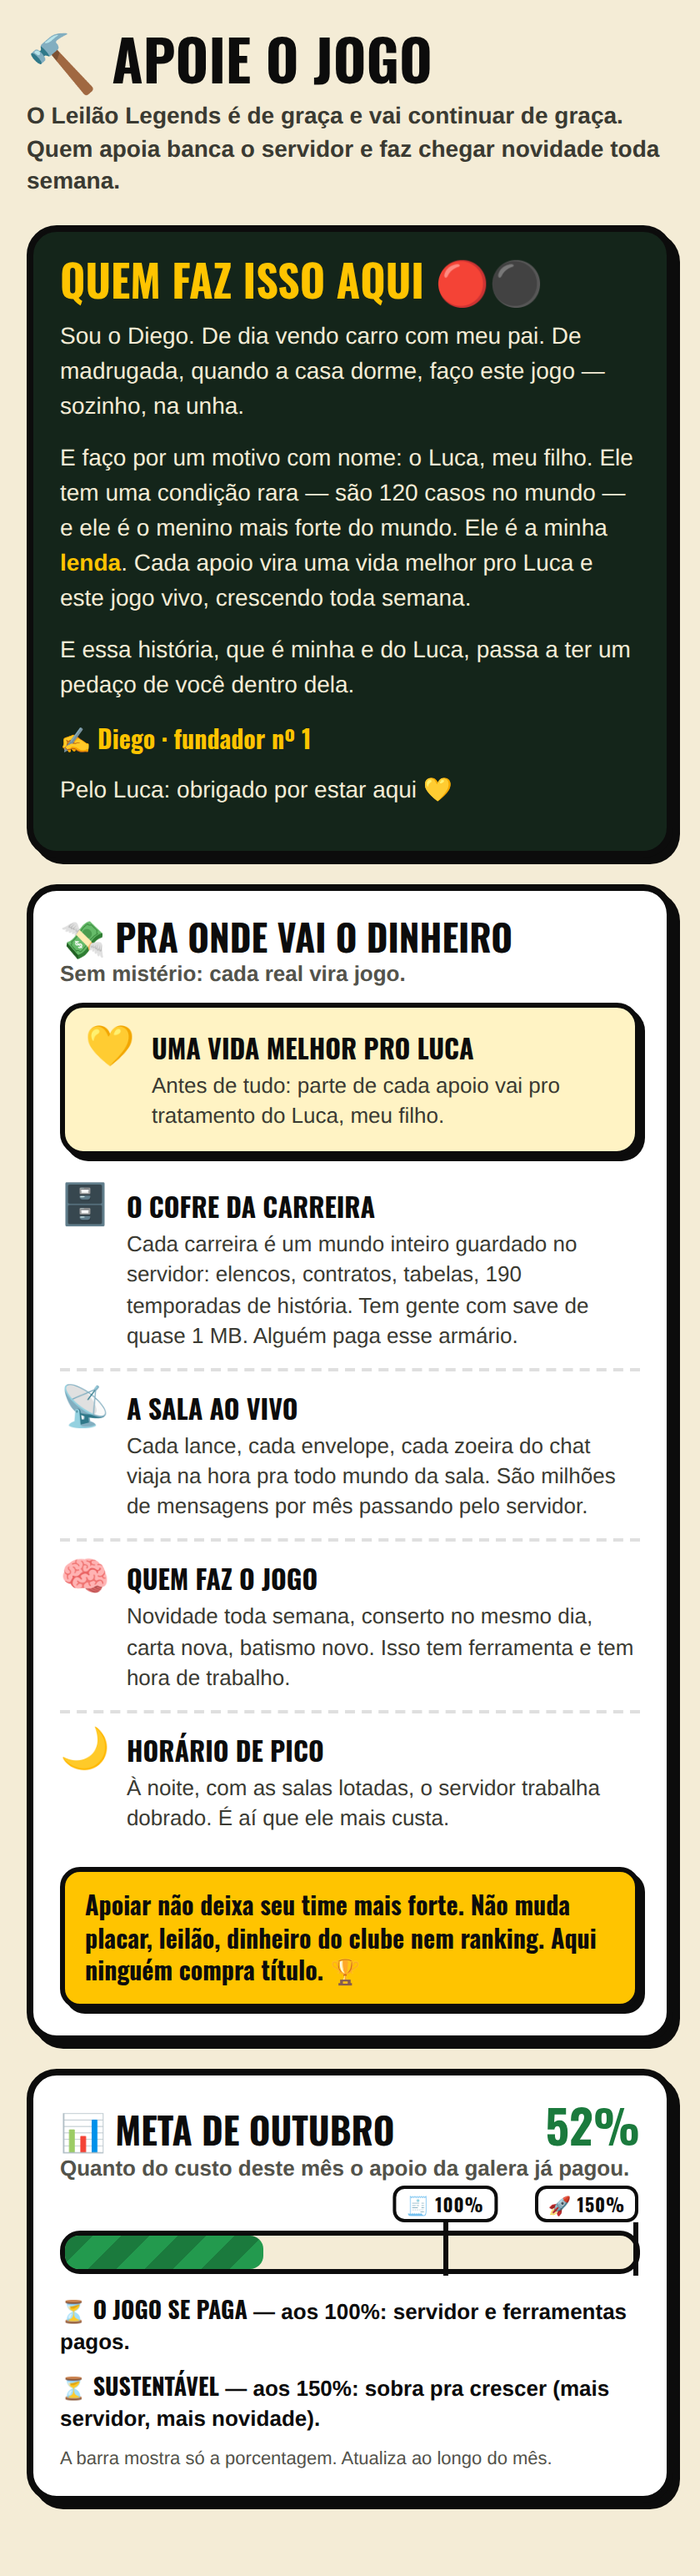
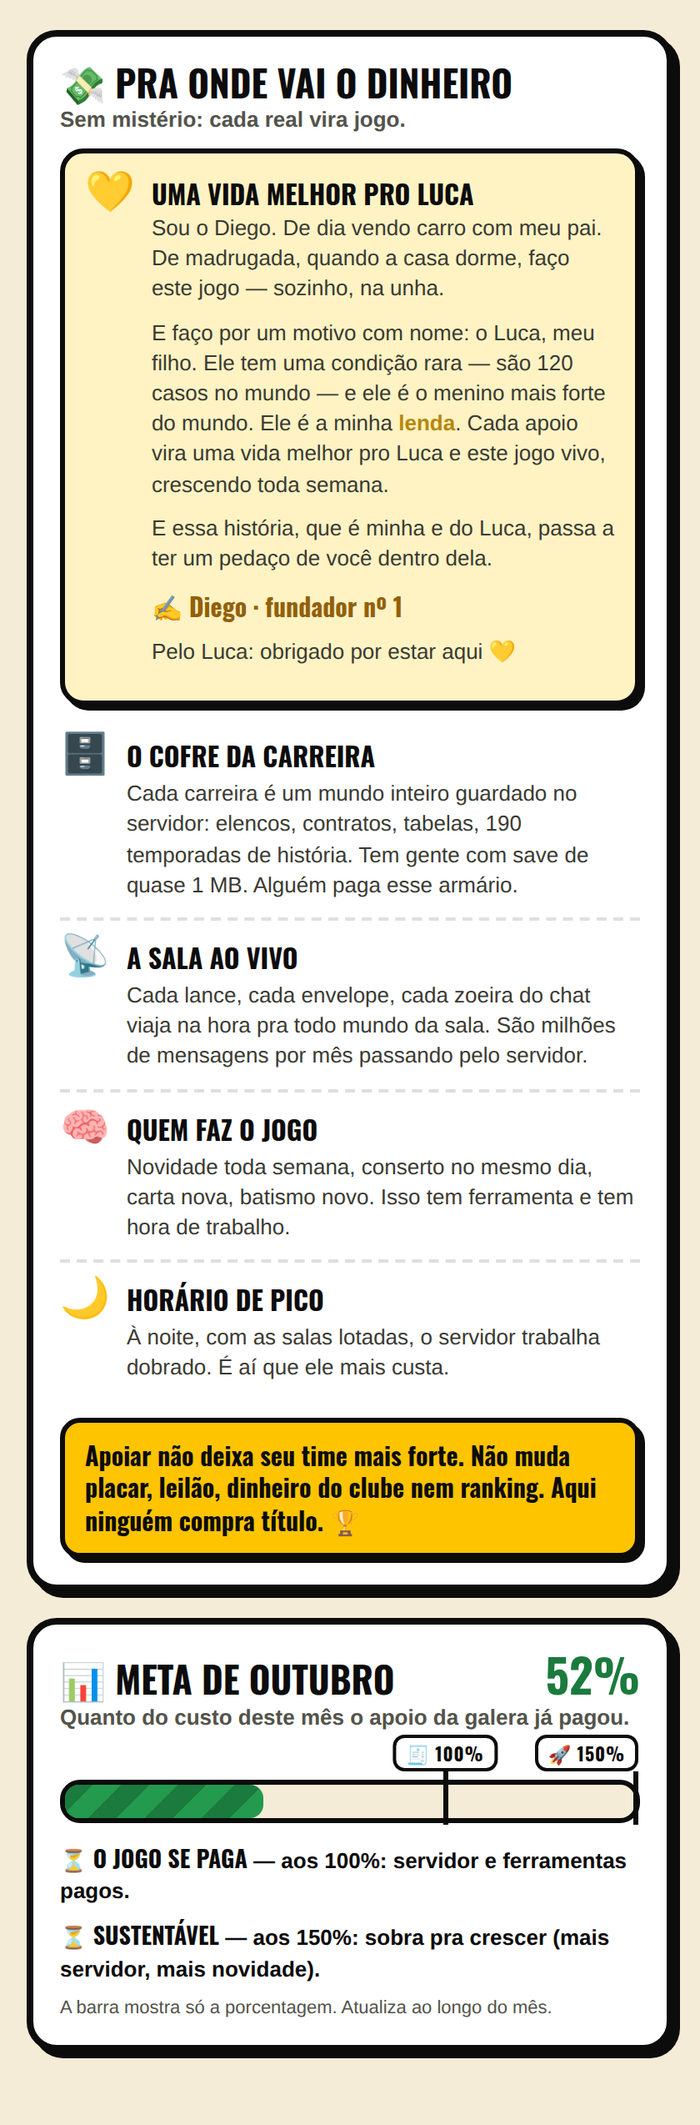
Mockup do apoie: só 'Pra onde vai o dinheiro' + meta (vai dentro do modal, perto dos planos); história do Diego inteira dentro do quadro do Luca
Claude-Session: https://claude.ai/code/session_018Ap1zPCMVL9XeZJN3u93ZA

diff --git a/docs/pendencias.md b/docs/pendencias.md
@@ -3,7 +3,7 @@ Falha: *"🙈 jogo de copa só conta com a Copa encerrada na tela (sem spoiler)"
 
 ## 💸 Apoie: "Pra onde vai o dinheiro" + META DO MÊS (13/10) — ⏳ MOCKUP ENVIADO, esperando OK e 2 números
 Diego mandou o print do Brasileirinho: *"dizer aonde vai o dinheiro mas sempre com nossa forma de falar… padrões visuais"* + barra do mês (recebido × custo: Supabase + ~600 de Claude), com marca de "o jogo se paga" (100%) e "sustentável" (lucro; mockup usa 150%). Mockup `scripts/mockup-apoie-dinheiro.mjs` → `scripts/mockups/apoie-dinheiro.png` (52% é EXEMPLO).
-⚠ O jogo NÃO tem registro dos Pix recebidos (`esc_pagamentos` vazia — Mercado Pago ainda não ligado). Estimativa de outubro pelo que foi liberado no banco: 10 batismos (~R$ 650) + 16 ouros e 12 pratas mexidos no mês (parte é batismo/renovação) → algo na faixa de R$ 1.100. Falta o Diego dizer: quanto ENTROU de verdade e quanto o Supabase cobrou (e se os 600 de Claude são reais ou dólar). 💛 Diego (13/10): o texto DELE ("Quem faz isso aqui", `SupportStory` em support-plans.tsx — o Luca, 120 casos no mundo) é melhor que o meu e SOBE pro topo da tela de apoio; na lista do dinheiro fica uma linha curta "Uma vida melhor pro Luca". Nunca reescrever o texto dele. Ideia de produção: tabela de meta do mês que só o Diego edita (custo + recebido) e a tela mostra só a %.
+⚠ O jogo NÃO tem registro dos Pix recebidos (`esc_pagamentos` vazia — Mercado Pago ainda não ligado). Estimativa de outubro pelo que foi liberado no banco: 10 batismos (~R$ 650) + 16 ouros e 12 pratas mexidos no mês (parte é batismo/renovação) → algo na faixa de R$ 1.100. Falta o Diego dizer: quanto ENTROU de verdade e quanto o Supabase cobrou (e se os 600 de Claude são reais ou dólar). 🧩 Formato combinado (14/10): NÃO é tela nova nem título "Apoie o jogo" — é só a seção "Pra onde vai o dinheiro" + meta, DENTRO do modal de apoio, perto dos planos; a história do Diego vai INTEIRA dentro do quadro "Uma vida melhor pro Luca" (e sai o bloco separado do fim do modal); sem o subtítulo de cima (a faixa dourada já diz que não dá vantagem). 💛 Diego (13/10): o texto DELE ("Quem faz isso aqui", `SupportStory` em support-plans.tsx — o Luca, 120 casos no mundo) é melhor que o meu e SOBE pro topo da tela de apoio; na lista do dinheiro fica uma linha curta "Uma vida melhor pro Luca". Nunca reescrever o texto dele. Ideia de produção: tabela de meta do mês que só o Diego edita (custo + recebido) e a tela mostra só a %.
 
 ## 📱☁ "Volto e estou na 189 de novo" — Pé de Breque (13/10) — ✅ CONSERTADO
 Causa: aparelho CHEIO (save de ~1 MB, 193 temporadas). O autosave no aparelho falhava CALADO e a cópia dele ficou na 189; o "Sair e salvar" subia a certa (193) pra nuvem e marcava o carimbo como "aparelho em dia" — então a home nunca mais baixava e o Continuar abria a 189. Diego: *"ele tem que usar o save onde ele quiser, seja PC, Chrome, celular"*.
